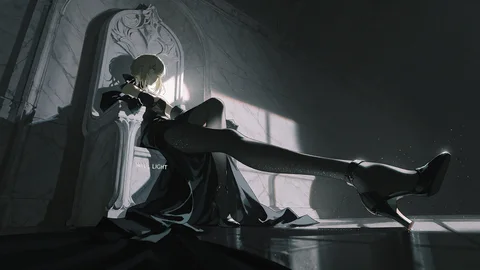
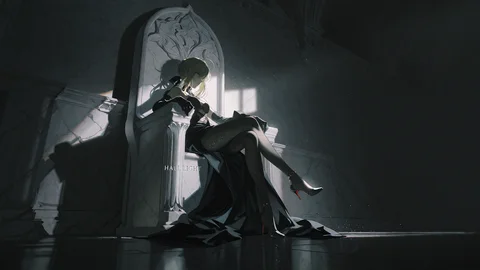
v1.17.3: 石厅逆光腿部改标准二郎腿（大腿交叠+小腿垂挂+鞋悬空），删掉不许下垂的矛盾负面项

diff --git a/__init__.py b/__init__.py
@@ -18,7 +18,7 @@ Krea2「白垩光 / 未来奢华编辑主视觉」长文提示词的自动装配
 """
 from __future__ import annotations
 
-__version__ = "1.17.2"
+__version__ = "1.17.3"
 
 from .k2ed_node import K2EditorialBuilder, register_routes
 

diff --git a/README.md b/README.md
@@ -177,6 +177,20 @@ git clone https://github.com/lingdongbudong/Comfyui-K2-Editorial.git
 
 ## 更新日志
 
+### v1.17.3
+
+- **`k2x_clsc_seat_side` 的腿部改成标准二郎腿**（普通「一条腿搭在另一条腿上」）。上一版两个口径自相矛盾：
+  正面要求 `extends forward level with her hip`（腿水平前伸），负面清单里却钉着 `no leg hanging straight down beside the other`，
+  模型只能画成「直腿横跨画面」，看着像伸腿、不像翘腿。
+  现在：
+  - 动作段：`her right thigh lies across her left thigh and her right knee sits above and slightly outside her left knee`
+    —— **大腿压大腿**，全身只有这一个接触点；小腿从膝上**斜向内下方垂挂**，脚悬空、脚尖朝下、鞋底朝地，离地一拳；
+    踏地那条腿的膝低于座面，小腿垂到底、鞋底平踏，是唯一触地的那只；
+  - 负面清单：删掉 `no leg hanging straight down beside the other`（元凶），换成
+    `no straight leg held out level / no leg stretched forward across the frame / no dangling foot touching the floor`。
+- 其余口径不变：45° 侧前低机位、头后逆光、暗调、无柱、无冠、16:9。
+- 实测：标准二郎腿成立（大腿交叠 + 小腿垂挂 + 鞋悬空 + 另一只脚踏地），逆光与暗调保持不变；回归 23/23 全绿。
+
 ### v1.17.2
 
 - **`k2x_clsc_seat_side` 按参考图重做构图**，画内标题由 `COLONNADE` 改为 **`HALL LIGHT`**（场景里已经没有柱子，原名不再成立），中文名「石厅逆光」：
